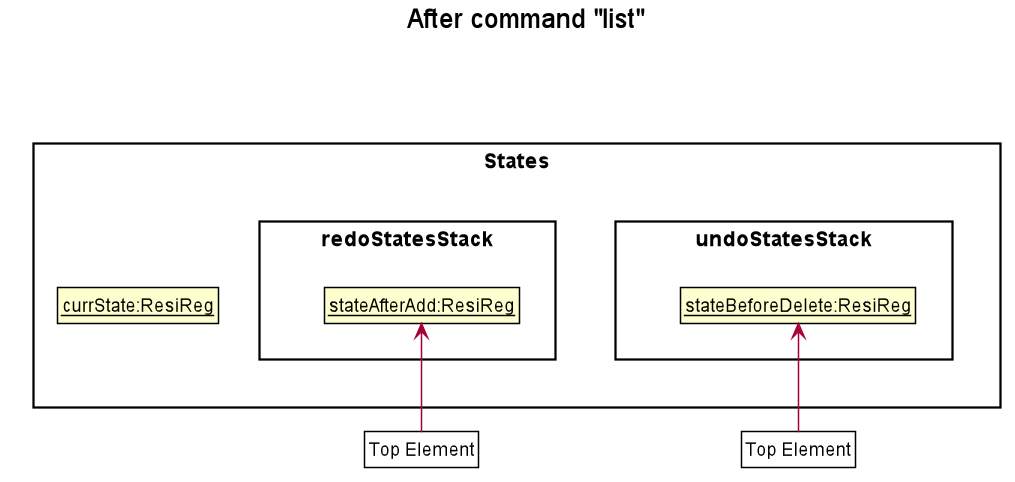
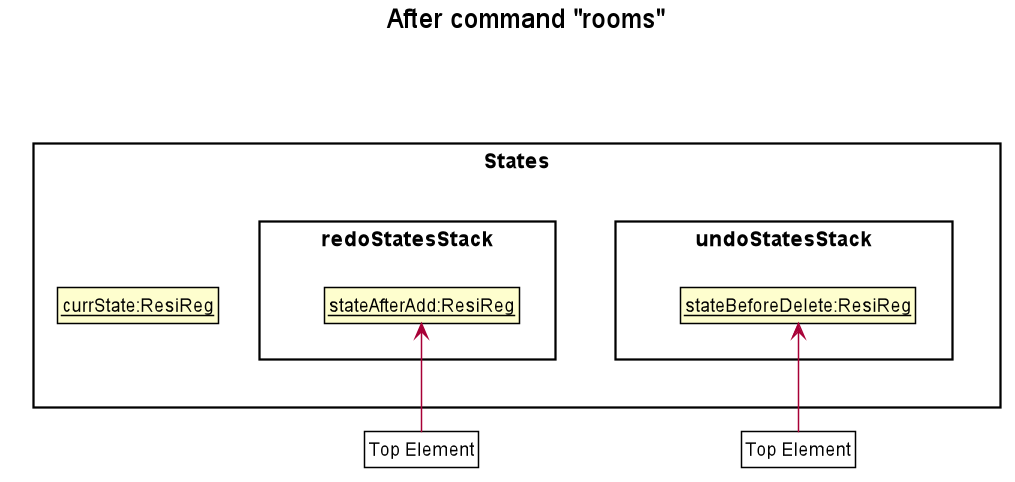
Fix minor mistakes in UG and DG

Changed region(s): [[0.3665, 0.0, 0.6719, 0.0622]]

diff --git a/docs/DeveloperGuide.md b/docs/DeveloperGuide.md
@@ -159,8 +159,9 @@ This section describes some noteworthy details on how certain features are imple
 
 #### Implementation
 
-The undo/redo mechanism is facilitated by `StatefulResiReg`. It extends `ResiReg` with an undo/redo history, stored 
-internally as `redoStatesStack`, `undoStatesStack` and `currState`. Additionally, it implements the following operations:
+The undo/redo mechanism is facilitated by `StatefulResiReg`. It extends `ResiReg` with an undo/redo history, for commands that
+modify the state of ResiReg, which comprises of: students, rooms, allocations, semesters and bin items.
+The history is stored internally as `redoStatesStack`, `undoStatesStack` and `currState`. Additionally, it implements the following operations:
 
 - `VersionedResiReg#save()` — Saves the current residence regulation state in its history.
 - `VersionedResiReg#undo()` — Restores the previous residence regulation state from its history.
@@ -180,7 +181,7 @@ to be saved in the `undoStatesStack`  and setting `currState` to be the state of
 
 ![UndoRedoState1](images/UndoRedoState1.png)
 
-Step 3. The user executes `add n/Jet …` to add a new person. The `add` command also calls `Model#saveStateResiReg()`, causing the
+Step 3. The user executes `add n/Jet …` to add a new student. The `add` command also calls `Model#saveStateResiReg()`, causing the
 current unmodified state to be saved in the `undoStatesStack` and `currState` to be set to the modified resident regulation state.
 
 ![UndoRedoState2](images/UndoRedoState2.png)
@@ -190,13 +191,14 @@ both `currState` and `undoStatesStack` will not be updated.
 
 </div>
 
-Step 4. The user now decides that adding the person was a mistake, and decides to undo that action by executing the `undo` command. The `undo` command will call `Model#undoResiReg()`, 
+Step 4. The user now decides that adding the student was a mistake, and decides to undo that action by executing the `undo` command. The `undo` command will call `Model#undoResiReg()`, 
 which will add the current state `stateAfterAdd` to `redoStatesStack` and set `currState` to the last entry in
  `undoStatesStack`, the previous residence regulation state (`stateBeforeAdd`), and restores the residence regulation to that state.
 
 ![UndoRedoState3](images/UndoRedoState3.png)
 
-<div markdown="span" class="alert alert-info">:information_source: **Note:** If the `currentStatePointer` is at index 0, pointing to the initial ResiReg state, then there are no previous ResiReg states to restore. The `undo` command uses `Model#canUndoResiReg()` to check if this is the case. If so, it will return an error to the user rather
+<div markdown="span" class="alert alert-info">:information_source: **Note:** If the `redoStatesStack` is empty, then there are no previous ResiReg states to restore. 
+The `undo` command uses `Model#canUndoResiReg()` to check if this is the case. If so, it will return an error to the user rather
 than attempting to perform the undo.
 
 </div>
@@ -209,14 +211,15 @@ The following sequence diagram shows how the undo operation works:
 
 </div>
 
-The `redo` command does the opposite — it calls `Model#redoResiReg()`, which adds the current state to `rundoedoStatesStack` and set `currState` to the last entry in 
+The `redo` command does the opposite — it calls `Model#redoResiReg()`, which adds the current state to `undoStatesStack` and set `currState` to the last entry in 
 `redoStatesStack`, the next residence regulation state, and restores the residence regulation to that state.
 
 <div markdown="span" class="alert alert-info">:information_source: **Note:** If `redoStatesStack` is empty, then there are no undone ResiReg states to restore. The `redo` command uses `Model#canRedoResiReg()` to check if this is the case. If so, it will return an error to the user rather than attempting to perform the redo.
 
 </div>
 
-Step 5. The user then decides to execute the command `list`. Commands that do not modify the residence regulation, such as `list`, will usually not call `Model#saveStateResiReg()`, `Model#undoResiReg()` or `Model#redoResiReg()`. Thus, both `redoStatesStack` and `undoStatesStack` remain unchanged.
+Step 5. The user then decides to execute the command `rooms`. Commands that do not modify the state of ResiReg 
+(e.g. `alias`, `rooms`, `togglesplit`, etc.) will not call `Model#saveStateResiReg()`, `Model#undoResiReg()` or `Model#redoResiReg()`. Thus, both `redoStatesStack` and `undoStatesStack` remain unchanged.
 
 ![UndoRedoState4](images/UndoRedoState4.png)
 

diff --git a/docs/UserGuide.md b/docs/UserGuide.md
@@ -258,7 +258,6 @@ the previous state modifying command was executed.
 
 <div markdown="span" class="alert alert-info">:information_source: Pressing the <kbd>ctrl-z</kbd> keyboard combination
 in the command box will execute the command as well.
-
 </div>
 
 #### 5. Redo previous undo command : `redo`
@@ -266,7 +265,11 @@ Reverses the most recent undo command.
 
 <div markdown="span" class="alert alert-info">:information_source: Pressing the <kbd>ctrl-y</kbd> keyboard combination
 in the command box will execute the command as well.
+</div>
 
+<div markdown="span" class="alert alert-primary">:bulb: **Tip:**
+`undo` and `redo` support the undoing and redoing respectively of commands
+that change the state of ResiReg, which comprises of: students, rooms, allocations, semesters and bin items.
 </div>
 
 #### 6. List previously entered commands : `history`
